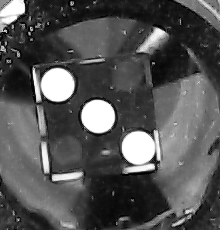
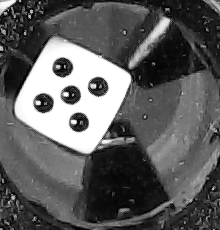
dark numbers

diff --git a/python/debugging/debugging.py b/python/debugging/debugging.py
@@ -3,6 +3,16 @@ import cv2
 
 cap = cv2.VideoCapture(0)
 
+blob_params = cv2.SimpleBlobDetector_Params()
+
+blob_params.filterByColor = True
+blob_params.filterByArea = True
+blob_params.minArea = 100
+blob_params.filterByCircularity = False
+blob_params.filterByInertia = True
+blob_params.filterByConvexity = True
+
+
 #ret, empty_frame = cap.read() # ret gibt true oder false zurück, checkt ob video läuft
        
 #y=200
@@ -35,10 +45,36 @@ while(True):
     cv2.imshow('INPUT', input_frame) #anzeigen
     cv2.imwrite('INPUT.png', input_frame) #abspeichern
 
-    ret, binary_image = cv2.threshold(input_frame, 180, 255, cv2.THRESH_BINARY) #Schwellenwertbild abspeichern
+    ret, binary_image = cv2.threshold(input_frame, 200, 255, cv2.THRESH_BINARY) #Schwellenwertbild abspeichern
 
     cv2.imshow('INPUT_BINARY', binary_image)
     cv2.imwrite('INPUT_BINARY.png', binary_image)
+
+    kernel_rect = np.ones((5, 5), np.uint8) #quadratische Maske erzeugen
+    opening = cv2.morphologyEx(binary_image, cv2.MORPH_OPEN, kernel_rect)
+
+    dark_numbers = True
+    
+    if dark_numbers == True:
+                  
+        cv2.imshow('opening', opening) 
+       
+        w = opening.shape[1]  # y
+        h = opening.shape[0]  # x
+
+        mask = np.zeros((h + 2, w + 2), np.uint8)
+    
+        cv2.floodFill(opening, mask, (0, 0), 255);
+        cv2.floodFill(opening, mask, (0, 200), 255)
+        
+        cv2.imshow('flood', opening)        
+    
+        #kernel_rect = np.ones((9, 9), np.uint8) #quadratische Maske erzeugen
+        #closing = cv2.morphologyEx(binary_image, cv2.MORPH_CLOSE, kernel_rect)   
+    
+    else:   
+        opening = cv2.bitwise_not(opening)
+
 
     #kernel = np.ones((5, 5), np.uint8)
 
@@ -49,14 +85,11 @@ while(True):
 
     #kernel_round = cv2.getStructuringElement(cv2.MORPH_ELLIPSE,(9,9))
 
-    kernel_rect = np.ones((9, 9), np.uint8) #quadratische Maske erzeugen
-    opening = cv2.morphologyEx(binary_image, cv2.MORPH_OPEN, kernel_rect) #Opening anwenden, um Rauschen zu entfernen
-    
-    cv2.imshow('opening', opening)
-    cv2.imwrite('opening.png', opening)
-    
+
+    cv2.imshow('bit_not', opening)  
+  
     kernel_round = cv2.getStructuringElement(cv2.MORPH_ELLIPSE,(12,12)) #Ellipse als Maske erzeugen, un Punktförmigkeit der Augenzahlen beizubehalten
-    erosion = cv2.erode(opening, kernel_round, iterations = 2) #zweimal Erosion anwenden
+    erosion = cv2.dilate(opening, kernel_round, iterations = 1) #zweimal Erosion anwenden
 
     cv2.imshow('Erosion', erosion)
     cv2.imwrite('Erosion.png', erosion)
@@ -74,7 +107,7 @@ while(True):
                              [0,0,0,1,1,1,0,0,0]], dtype=np.uint8) #Kreisförmige Maske erzeugen
     
     #kernel_round = cv2.getStructuringElement(cv2.MORPH_ELLIPSE,(12,12))
-    dilate = cv2.dilate(erosion, kernel_round, iterations = 2)   #Dilatation anwenden, um weiße Punkte wieder zu vergrößern 
+    dilate = cv2.erode(erosion, kernel_round, iterations = 1)   #Dilatation anwenden, um weiße Punkte wieder zu vergrößern 
     
     cv2.imshow('DILATE', dilate)
     cv2.imwrite('dilate.png', dilate)
@@ -91,6 +124,16 @@ while(True):
     
 #    cv2.floodFill(closing, mask, (0, 0), 255);
 #    cv2.floodFill(closing, mask, (0, 200), 255)
+
+    #dilate = cv2.bitwise_not(dilate)
+
+    detector = cv2.SimpleBlobDetector_create(blob_params)
+    keypoints = detector.detect(dilate)
+    img_with_keypoints = cv2.drawKeypoints(dilate, keypoints, np.array([]), (0,0,255), cv2.DRAW_MATCHES_FLAGS_DRAW_RICH_KEYPOINTS)
+    
+    cv2.imshow('keypoints', img_with_keypoints)
+
+
 
     if cv2.waitKey(1) & 0xFF == ord('q'): # Q zum beenden
         break

diff --git a/python/tkinter_GUI.py b/python/tkinter_GUI.py
@@ -13,7 +13,7 @@ from matplotlib.figure import Figure
 starting = 0
 
 root = Tk()
-root.title('Dicer V0.5a')
+root.title('Dicer V0.6')
 
 GPIO.setwarnings(False)
 
@@ -165,15 +165,31 @@ def get_image():
 
 def img_processing(image_input):
     
+    print(dark_numbers.get())
+    
     #input_frame = cv2.cvtColor(image_input, cv2.COLOR_BGR2GRAY) #Kamerabild in Graustufen umwandeln
 
     ret, binary_image = cv2.threshold(image_input, binary_slider.get(), 255, cv2.THRESH_BINARY) #Schwellenwertbild abspeichern
     
-    kernel_rect = np.ones((9, 9), np.uint8) #quadratische Maske erzeugen
-    opening = cv2.morphologyEx(binary_image, cv2.MORPH_OPEN, kernel_rect) #Opening anwenden, um Rauschen zu entfernen
+    kernel_rect = np.ones((5, 5), np.uint8) #quadratische Maske erzeugen
+    opening = cv2.morphologyEx(binary_image, cv2.MORPH_OPEN, kernel_rect)
     
+    if dark_numbers.get() == 1:
+       
+        w = opening.shape[1]  # y
+        h = opening.shape[0]  # x
+
+        mask = np.zeros((h + 2, w + 2), np.uint8)
+    
+        cv2.floodFill(opening, mask, (0, 0), 255);
+        cv2.floodFill(opening, mask, (0, 200), 255)
+        
+    else:   
+        opening = cv2.bitwise_not(opening)
+
+
     kernel_round = cv2.getStructuringElement(cv2.MORPH_ELLIPSE,(12,12)) #Ellipse als Maske erzeugen, un Punktförmigkeit der Augenzahlen beizubehalten
-    erosion = cv2.erode(opening, kernel_round, iterations = 2) #zweimal Erosion anwenden
+    dilate = cv2.dilate(opening, kernel_round, iterations = 1) #zweimal Erosion anwenden
 
     kernel_round = np.array([[0,0,0,1,1,1,0,0,0],
                              [0,1,1,1,1,1,1,1,0],
@@ -185,17 +201,8 @@ def img_processing(image_input):
                              [0,1,1,1,1,1,1,1,0],
                              [0,0,0,1,1,1,0,0,0]], dtype=np.uint8) #Kreisförmige Maske erzeugen
     
-    dilate = cv2.dilate(erosion, kernel_round, iterations = 2)   #Dilatation anwenden, um weiße Punkte wieder zu vergrößern 
-    
-    dilate = cv2.bitwise_not(dilate)
+    erode= cv2.erode(dilate, kernel_round, iterations = 1)   #Dilatation anwenden, um weiße Punkte wieder zu vergrößern 
 
-    w = dilate.shape[1]  # y
-    h = dilate.shape[0]  # x
-
-    mask = np.zeros((h + 2, w + 2), np.uint8)
-    
-    cv2.floodFill(dilate, mask, (0, 0), 255);
-    cv2.floodFill(dilate, mask, (0, 200), 255)
     
     #cv2image2 = cv2.cvtColor(closing, cv2.COLOR_BGR2RGBA)
     #img2 = Image.fromarray(cv2image2)
@@ -204,9 +211,12 @@ def img_processing(image_input):
     #output_image.configure(image=imgtk2)   
     #print('processing finish')   
     
-    return dilate
+    return erode
 
 def counting(image):
+    
+    
+    
     global rollnumber
     global one
     global two
@@ -359,12 +369,12 @@ bottomFrame.pack(side=LEFT)
 error_logging = IntVar()
 bin_true=IntVar()
 start_stop=IntVar()
-
+dark_numbers=IntVar()
 
 Checkbutton(bottomFrame, text="binary", variable=bin_true).grid(row=1, column=4)
 Checkbutton(bottomFrame, text="roll", variable=start_stop).grid(row=1, column=5)
 Checkbutton(bottomFrame, text="Error logging", variable=error_logging).grid(row=1, column=6)
-
+Checkbutton(bottomFrame, text="dark numbers", variable=dark_numbers).grid(row=3, column=4)
 
 Label(bottomFrame, text='Binary value: ').grid(row=3, column=0, sticky=E, padx=10)
 
